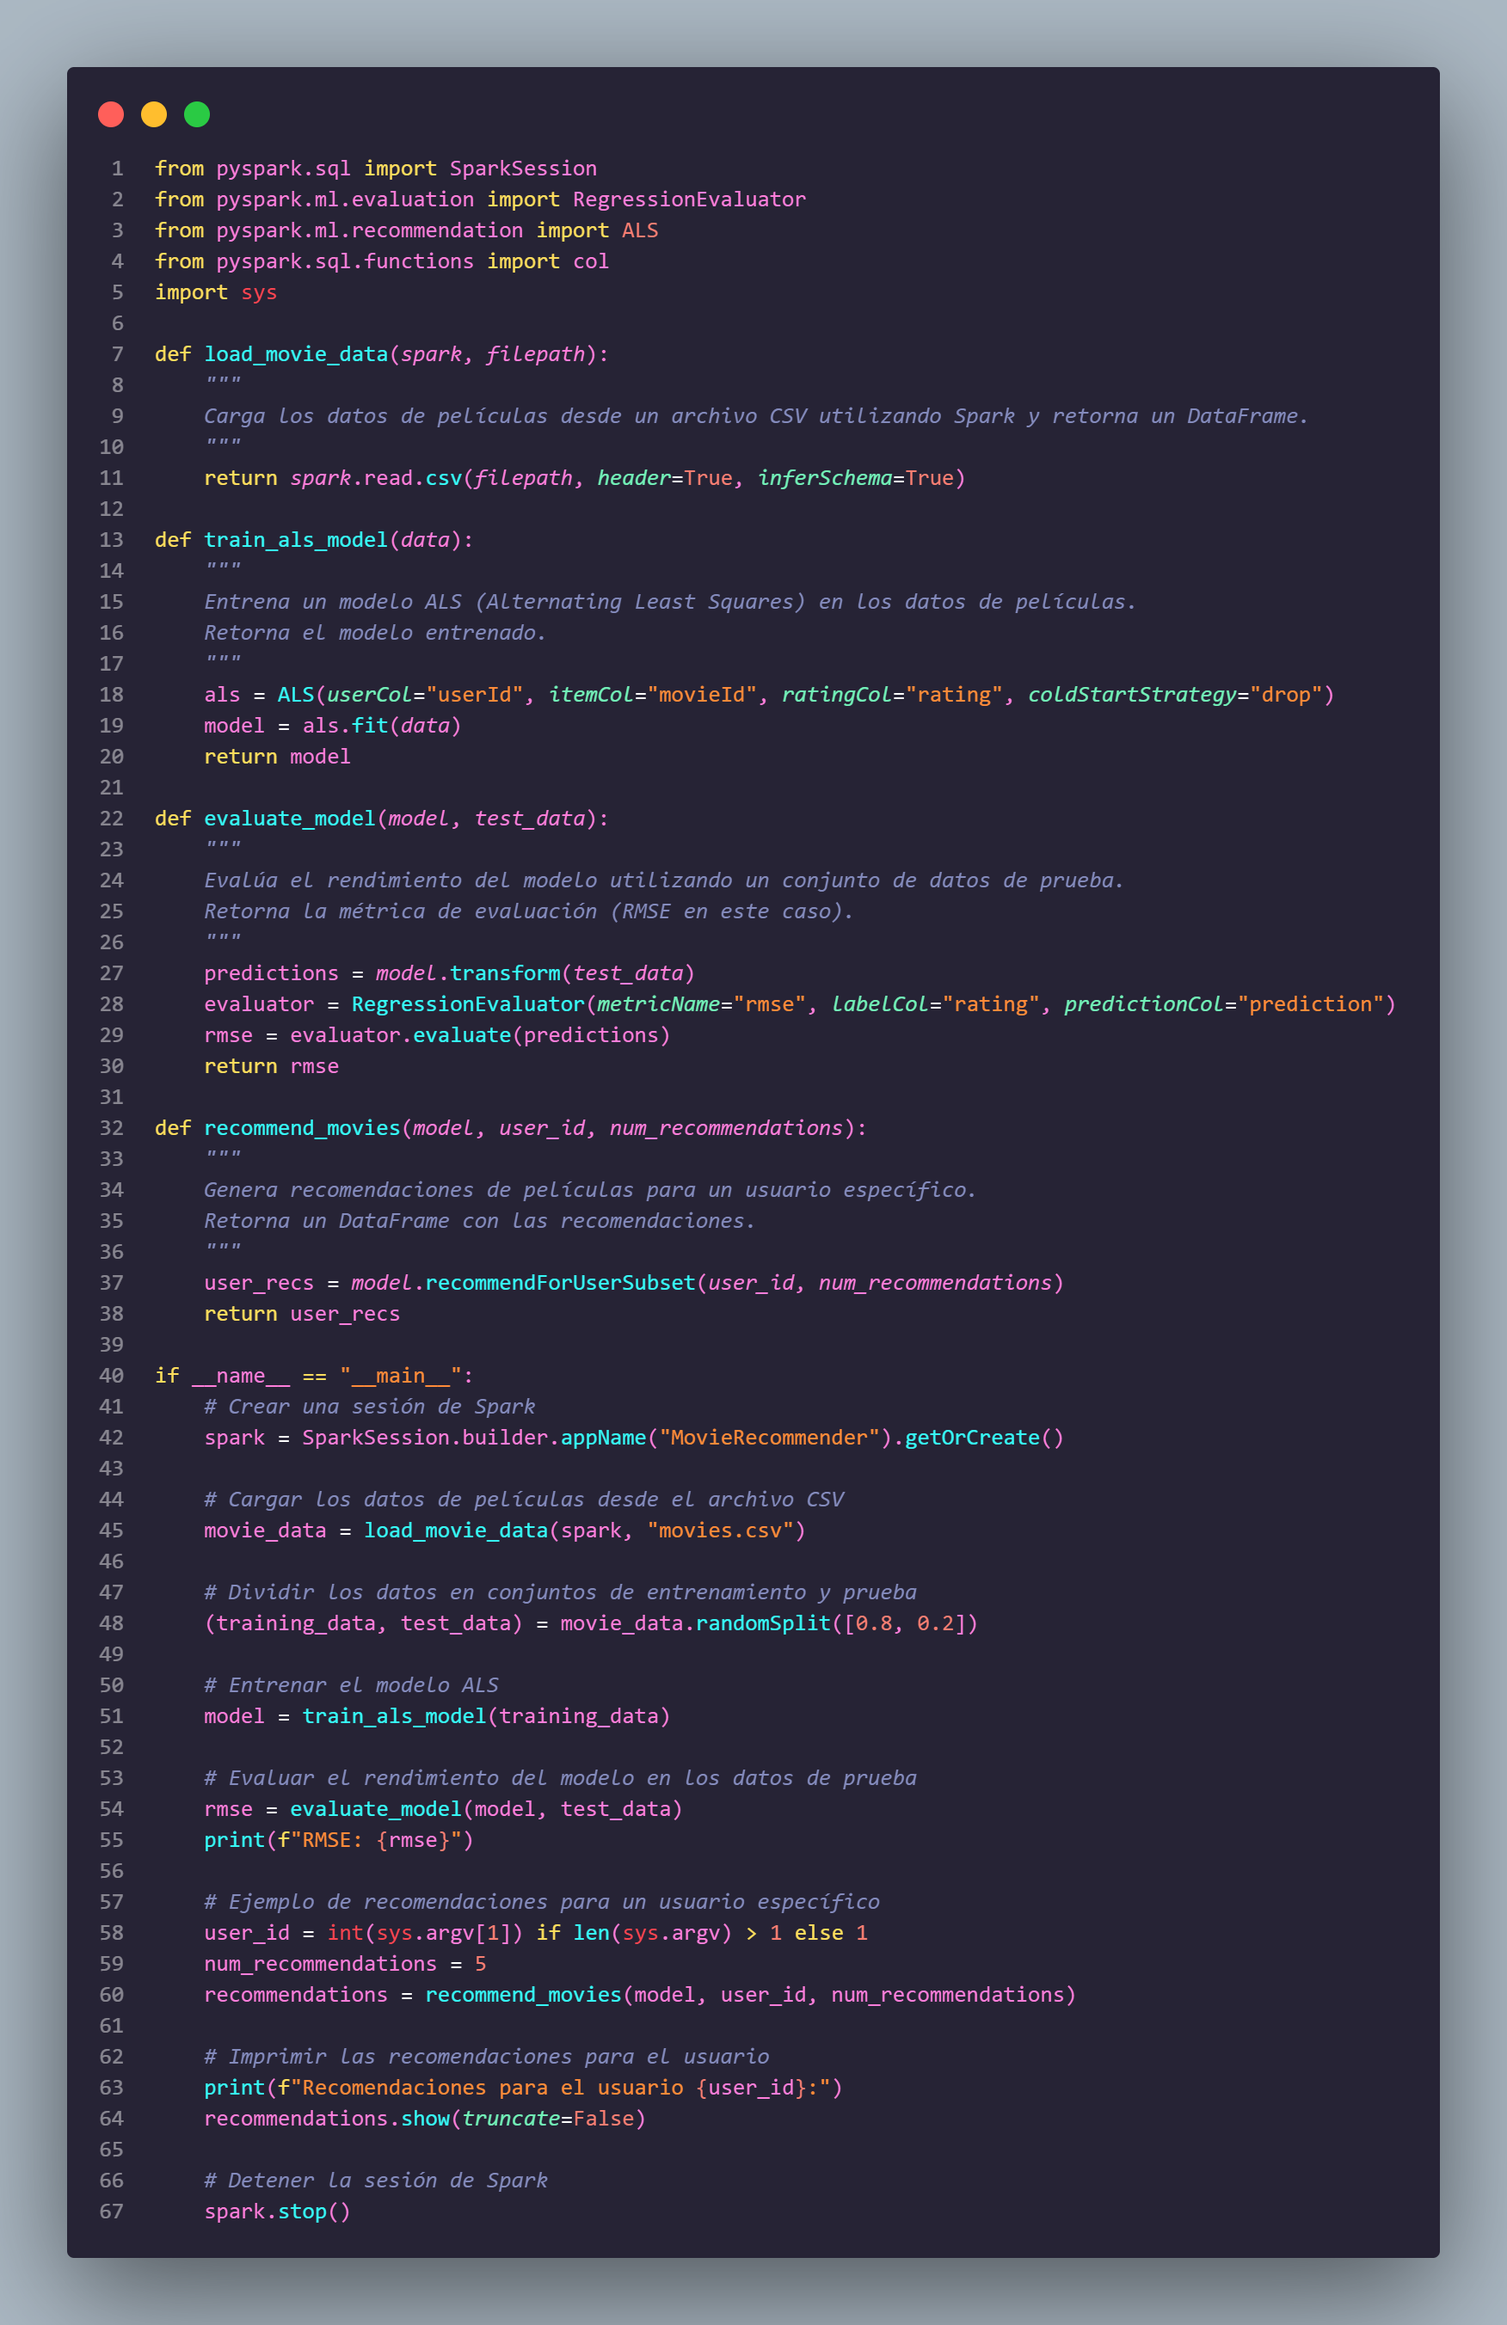
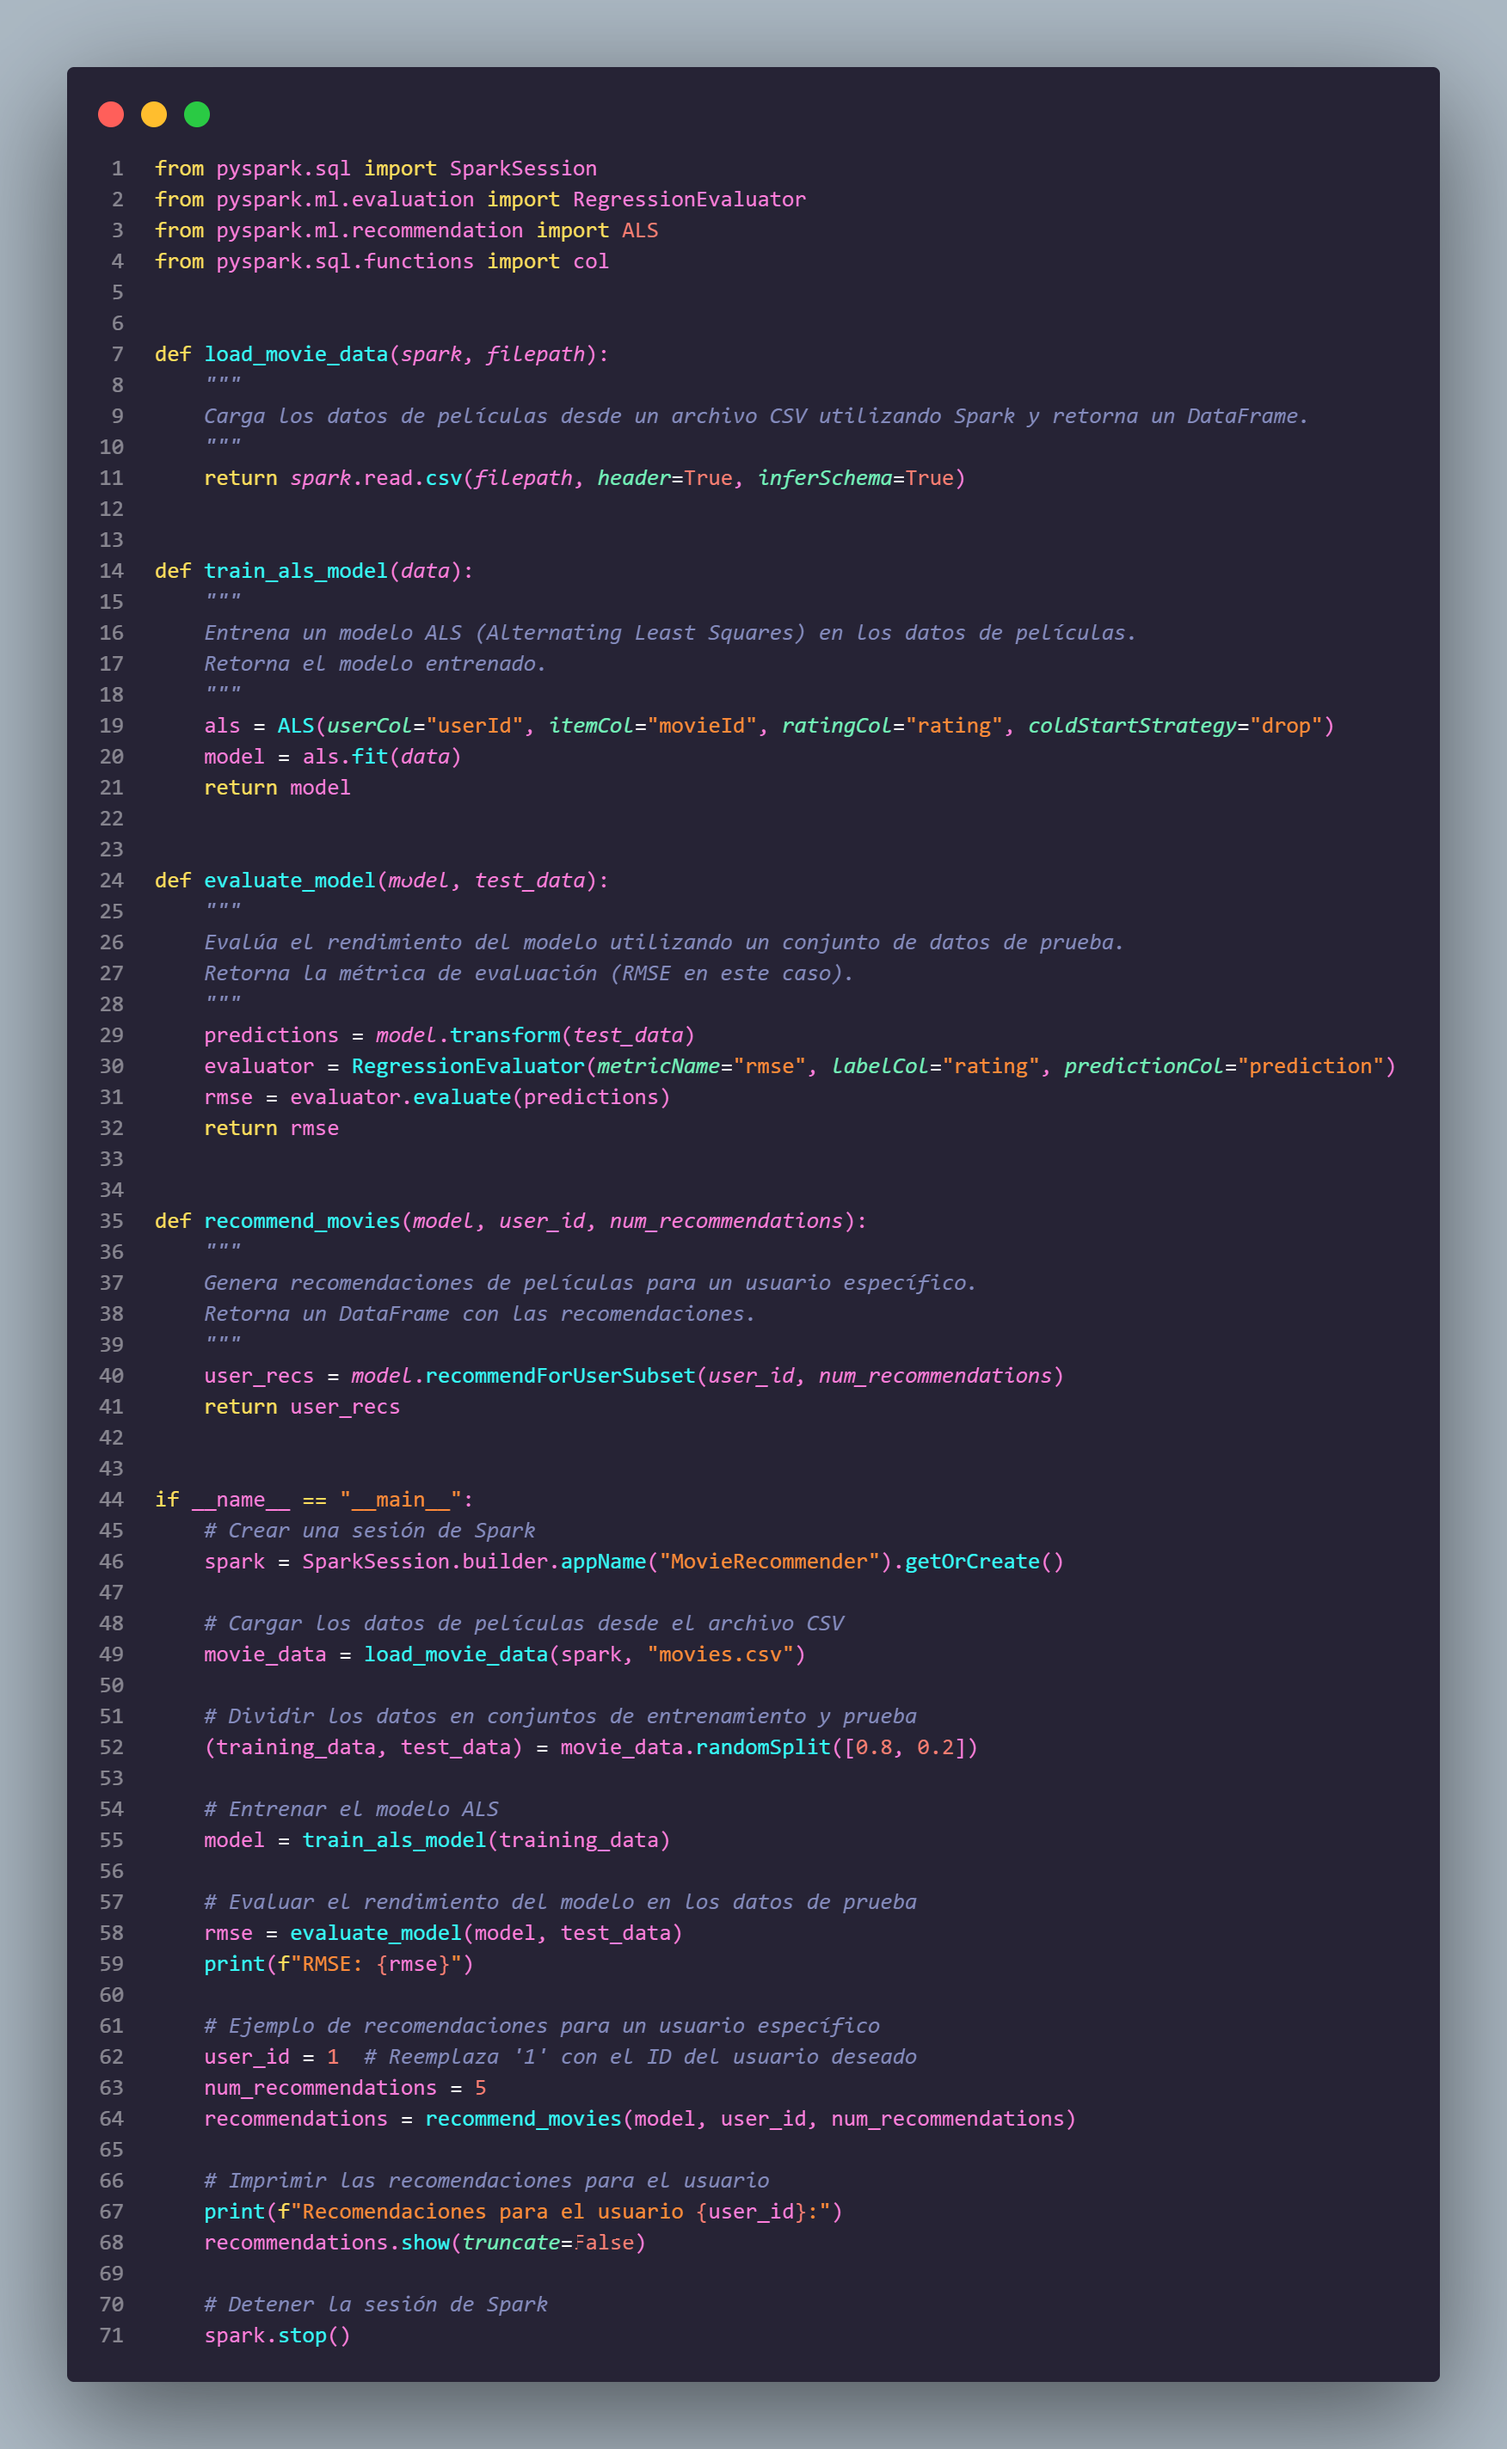
On branch main Changes to be committed: modified:   images/code.png modified:   movie_recommender.py modified:   readme.md

diff --git a/movie_recommender.py b/movie_recommender.py
@@ -2,13 +2,14 @@ from pyspark.sql import SparkSession
 from pyspark.ml.evaluation import RegressionEvaluator
 from pyspark.ml.recommendation import ALS
 from pyspark.sql.functions import col
-import sys
+
 
 def load_movie_data(spark, filepath):
     """
     Carga los datos de películas desde un archivo CSV utilizando Spark y retorna un DataFrame.
     """
     return spark.read.csv(filepath, header=True, inferSchema=True)
+
 
 def train_als_model(data):
     """
@@ -18,6 +19,7 @@ def train_als_model(data):
     als = ALS(userCol="userId", itemCol="movieId", ratingCol="rating", coldStartStrategy="drop")
     model = als.fit(data)
     return model
+
 
 def evaluate_model(model, test_data):
     """
@@ -29,6 +31,7 @@ def evaluate_model(model, test_data):
     rmse = evaluator.evaluate(predictions)
     return rmse
 
+
 def recommend_movies(model, user_id, num_recommendations):
     """
     Genera recomendaciones de películas para un usuario específico.
@@ -36,6 +39,7 @@ def recommend_movies(model, user_id, num_recommendations):
     """
     user_recs = model.recommendForUserSubset(user_id, num_recommendations)
     return user_recs
+
 
 if __name__ == "__main__":
     # Crear una sesión de Spark
@@ -55,7 +59,7 @@ if __name__ == "__main__":
     print(f"RMSE: {rmse}")
 
     # Ejemplo de recomendaciones para un usuario específico
-    user_id = int(sys.argv[1]) if len(sys.argv) > 1 else 1
+    user_id = 1  # Reemplaza '1' con el ID del usuario deseado
     num_recommendations = 5
     recommendations = recommend_movies(model, user_id, num_recommendations)
 

diff --git a/readme.md b/readme.md
@@ -286,9 +286,10 @@ y debería botarnos una salida asi:
 ```bash
 RMSE: 0.9254
 Recomendaciones para el usuario 1:
-+------+-------------------------------------------------------------+
-|userId|recommendations                                              |
-+------+-------------------------------------------------------------+
-|1     |[[123, 4.871237], [456, 4.765342], [789, 4.623581], [234, 4.598743], [567, 4.519275]]|
-+------+-------------------------------------------------------------+
++-------------------------------------------------------------------------------------------------------+
+|userId|recommendations                                                                                        |
++------+-------------------------------------------------------------------------------------------------------+
+|1     |[[242, 5.070116], [302, 4.952325], [474, 4.910628], [141, 4.8585763], [143, 4.8570733]]                 |
++-------------------------------------------------------------------------------------------------------+
+
 ```
